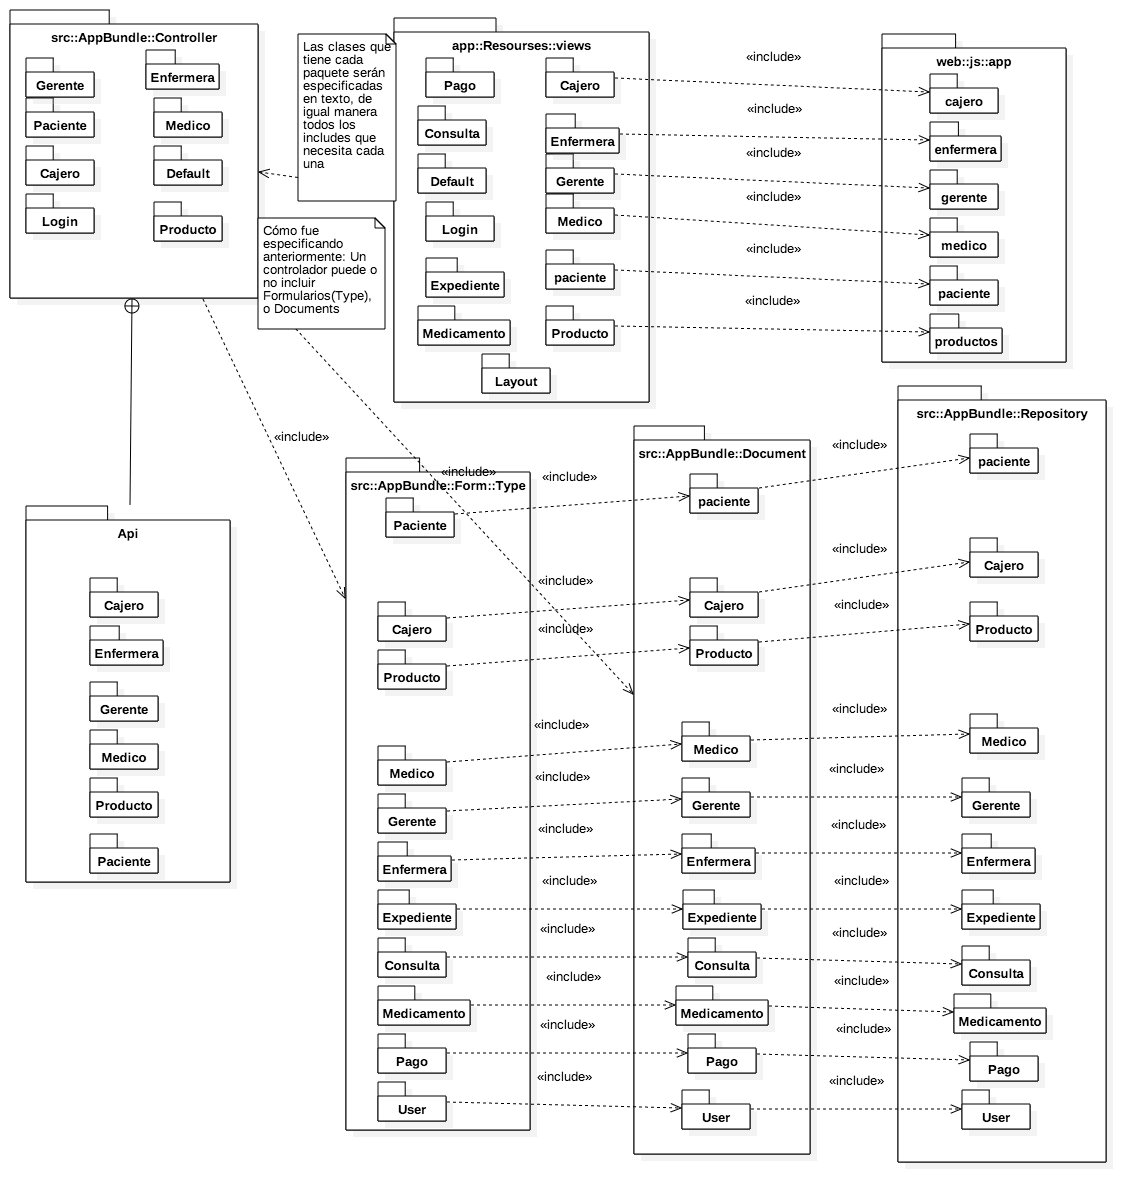
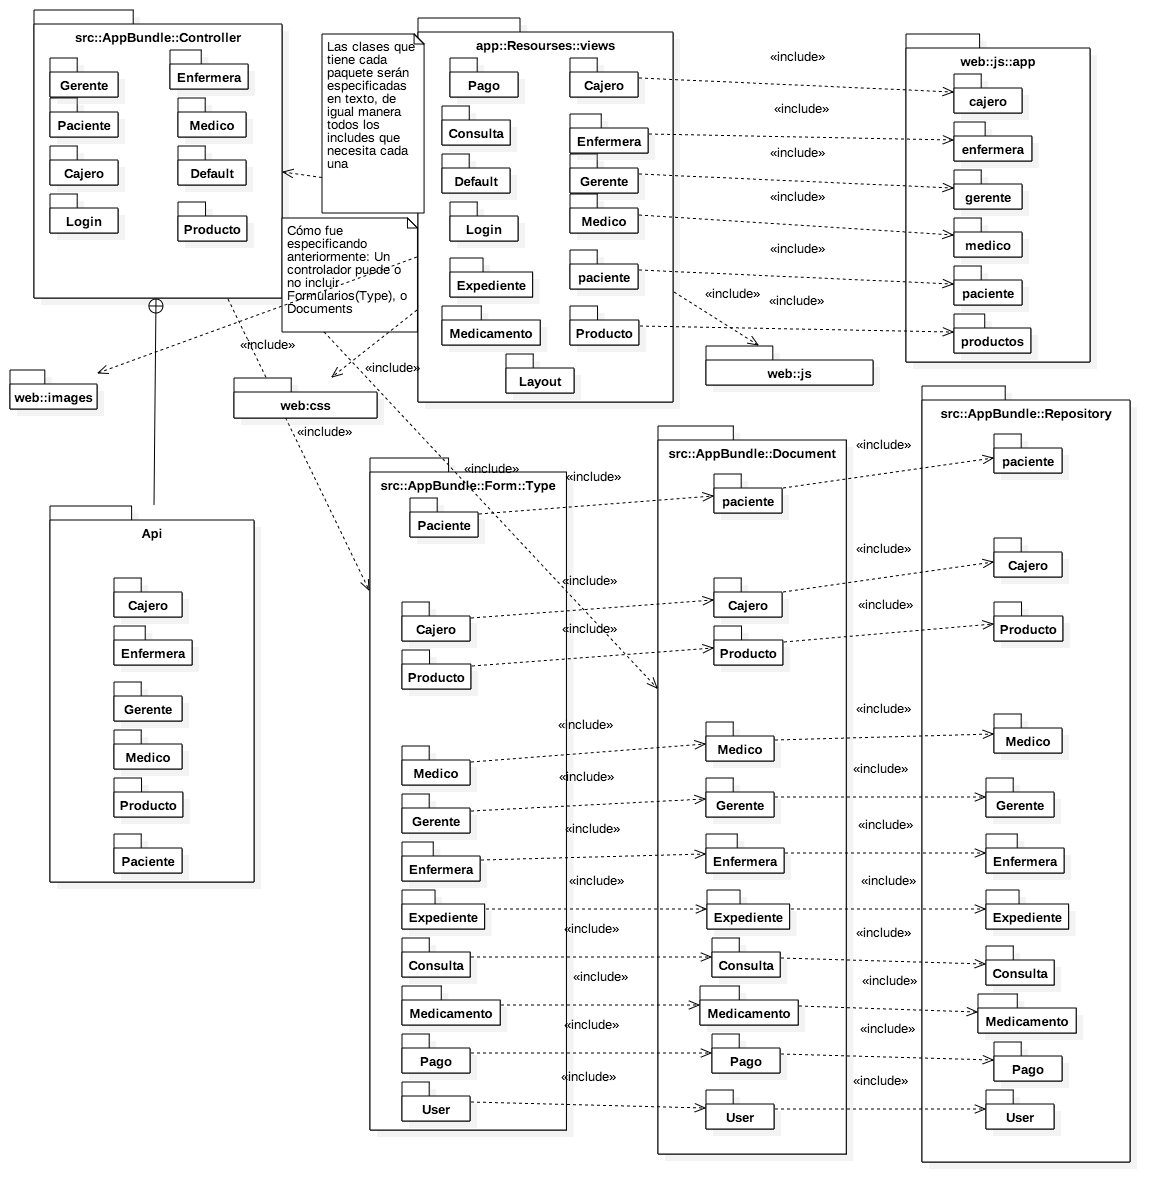
cambiando diagrama de paquetes

diff --git a/documento_disenio/ModeloEstatico/modeloEstatico.tex b/documento_disenio/ModeloEstatico/modeloEstatico.tex
@@ -24,6 +24,48 @@
 		\caption{Estructura angular app}
 	\end{figure}
 	
+	\begin{figure}[htbp!]
+		\centering
+			\includegraphics[width=1\textwidth]{images/logico35}
+		\caption{Estructura estilo y javascript}
+	\end{figure}
+		
+		
+	\newpage
+	\section{web:js::directives}
+	\begin{itemize}
+		\item angular-locale\_ es-mx.js
+		\item datatables.js
+		\item es.js
+	\end{itemize}
+	
+	\section{web::js::vendor::angular}
+	\begin{itemize}
+		\item angular.js
+		\item angular-resourse.min.js
+		\item angular-sanitize.js
+		
+	\end{itemize}		
+	\section{web::js:vendor:jquery}
+	\begin{itemize}
+		\item jquery.min.js
+\end{itemize}		
+	
+	\section{web::css:app:paciente::cita}
+	\begin{itemize}
+	\item agendar.css
+	\end{itemize}
+	
+	\section{web::css::vendor}
+	\begin{itemize}
+	\item animate.css
+	\item bootstrap.css
+	\item font-awesome.css
+	\item syte.css
+	
+	\end{itemize}
+	
+	
 	
 	\newpage
 	\section{web::js::app}
@@ -52,6 +94,8 @@
 		\end{itemize}
 		\end{itemize}
 	\end{itemize}
+	
+	
 	\subsection{enfermera}
 		\begin{itemize}
 		\item registrar
@@ -66,6 +110,8 @@
 			\end{itemize}
 		\end{itemize}
 	\end{itemize}
+	
+	
 	\subsection{gerente}
 		\begin{itemize}
 		\item registrar
@@ -80,6 +126,8 @@
 			\end{itemize}
 		\end{itemize}
 	\end{itemize}
+	
+	
 	\subsection{paciente}
 		\begin{itemize}
 		\item cita
@@ -92,6 +140,17 @@
 			\begin{itemize}
 				\item factories.js
 			\end{itemize}
+		\end{itemize}
+		\item datos
+		\begin{itemize}
+		\item controllers
+		\begin{itemize}
+			\item datosPaciente.js
+		\end{itemize}
+		\item services
+		\begin{itemize}
+		\item factories.js
+		\end{itemize}
 		\end{itemize}
 	\end{itemize}
 	\subsection{medico}
@@ -453,6 +512,9 @@
 \section{src::AppBundle::Repository}
 	
 	\subsection{Paciente}
+		\begin{itemize}
+		\item PacienteRepository.php
+		\end{itemize}
 		\subsection{Cajero}
 		\begin{itemize}
 			\item CajeroRepository.php

diff --git a/documento_disenio/Introduccion/Introduccion.tex b/documento_disenio/Introduccion/Introduccion.tex
@@ -1,6 +1,6 @@
 Este documento presenta el diseño del proyecto del sistema para una clínica, con desarrollo en el modelo iterativo, en la iteración 4. El proyecto está pensado para una empresa con las siguientes características:
 
-El proyecto lo realiza el equipo Black::Sheep() para la materia de Análisis y Diseño Orientado a Objetos (ADOO) en la Escuela Superior de Cómputo del Instituto Politécnico Nacional con fecha
+El proyecto lo realiza el equipo Black::Sheep() para la materia de Análisis y Diseño Orientado a Objetos (ADOO) en la Escuela Superior de Cómputo del Instituto Politécnico Nacional con fecha 7 de mayo del 2016
 
 
 %--------------------------------------------------
